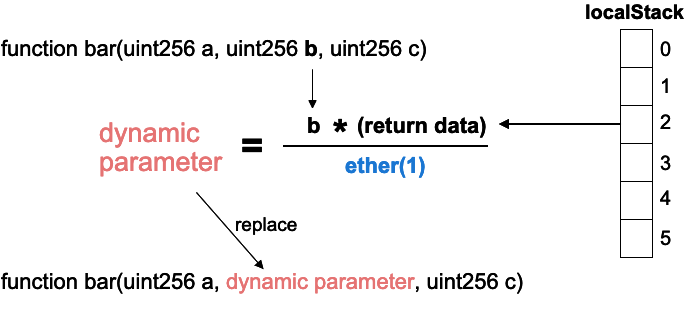
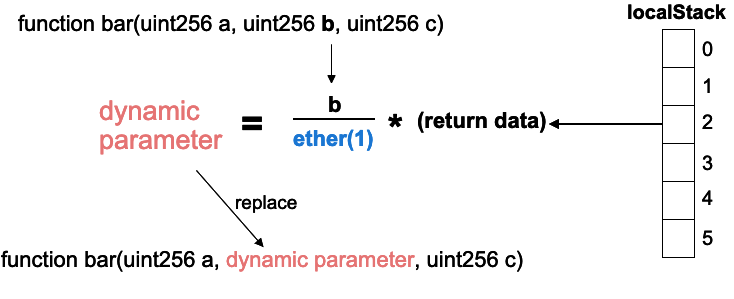
docs(chaininput): fix some issue

diff --git a/CHAINEDINPUT.md b/CHAINEDINPUT.md
@@ -123,7 +123,7 @@ returnData[6] = 4
 
 ## Percentage of dynamic parameter
 
-`dynamic parameter = return data * percentage, 0 < percentage <= 1`
+`dynamic parameter = return data * percentage`
 
 ![](images/percentage.png)
 
@@ -132,7 +132,8 @@ Replace the original parameter with **fraction** if using a dynamic parameter. T
 - fraction
   - `uint256` type
   - denominator is `ether(1)`
-  - `0 <= fraction <= ether(1)`
+  - `percentage = b/ether(1)`
+    - fraction = b
   - `0` if replace parameter with the exact same return data.
 
 **Example**
